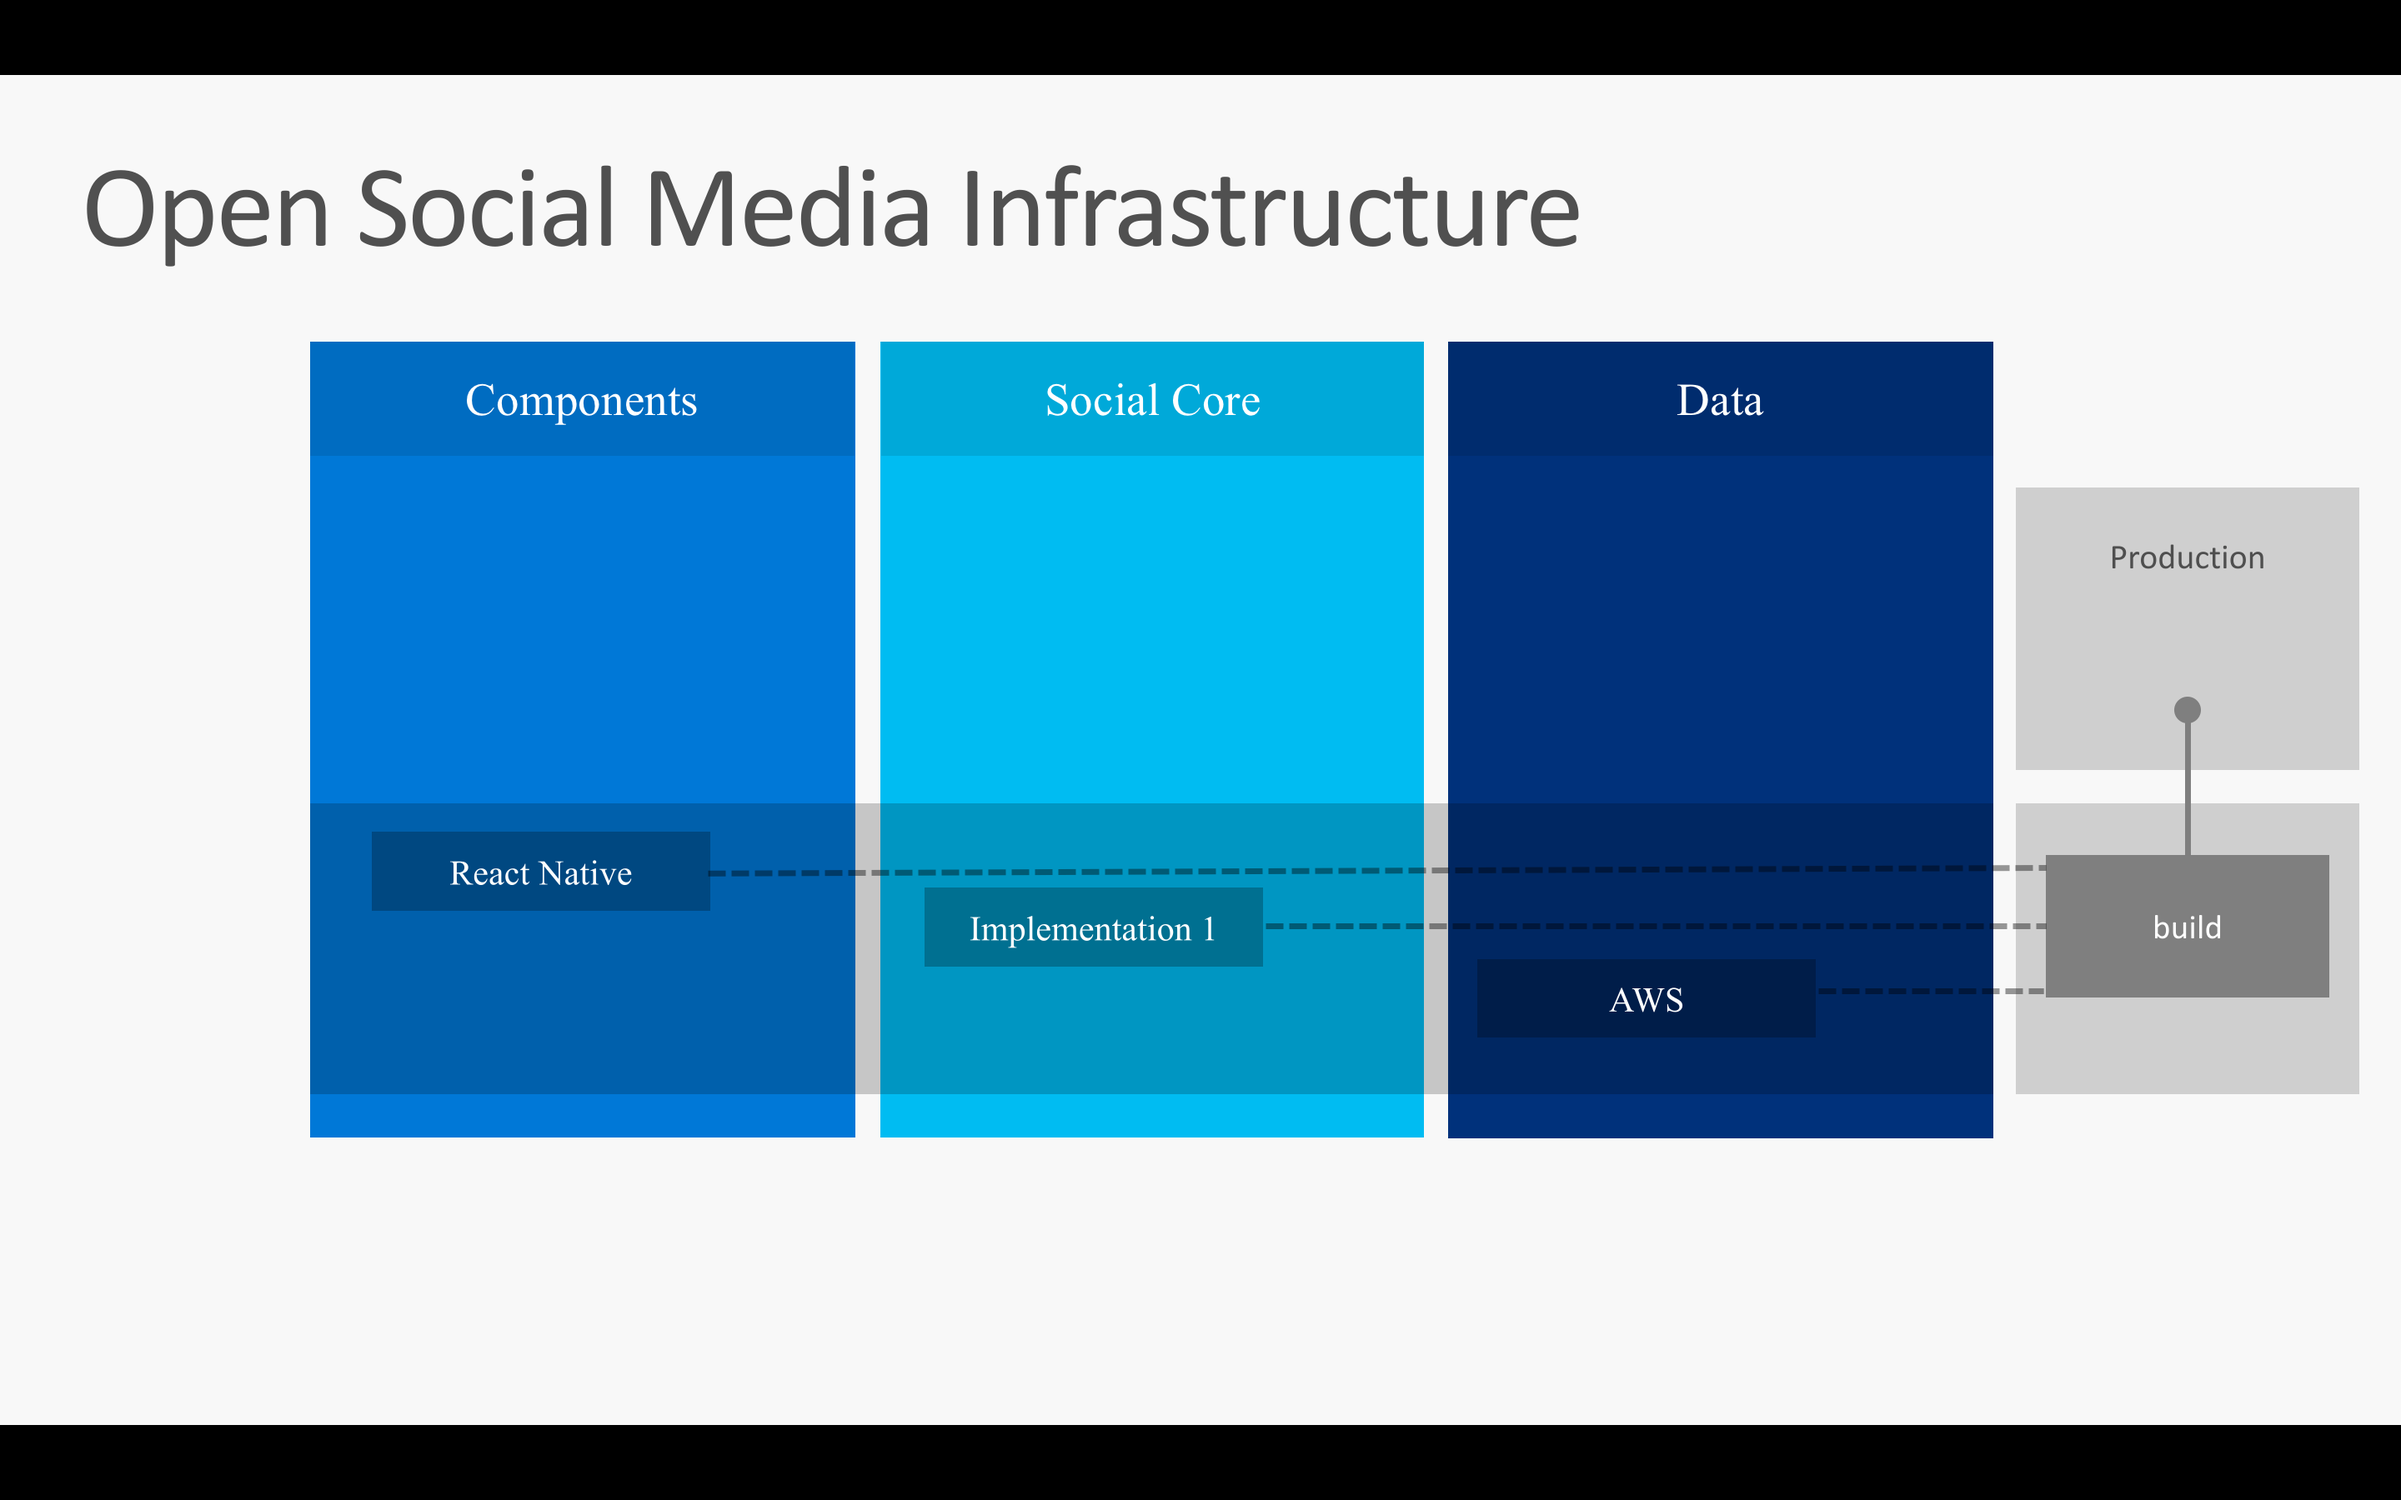
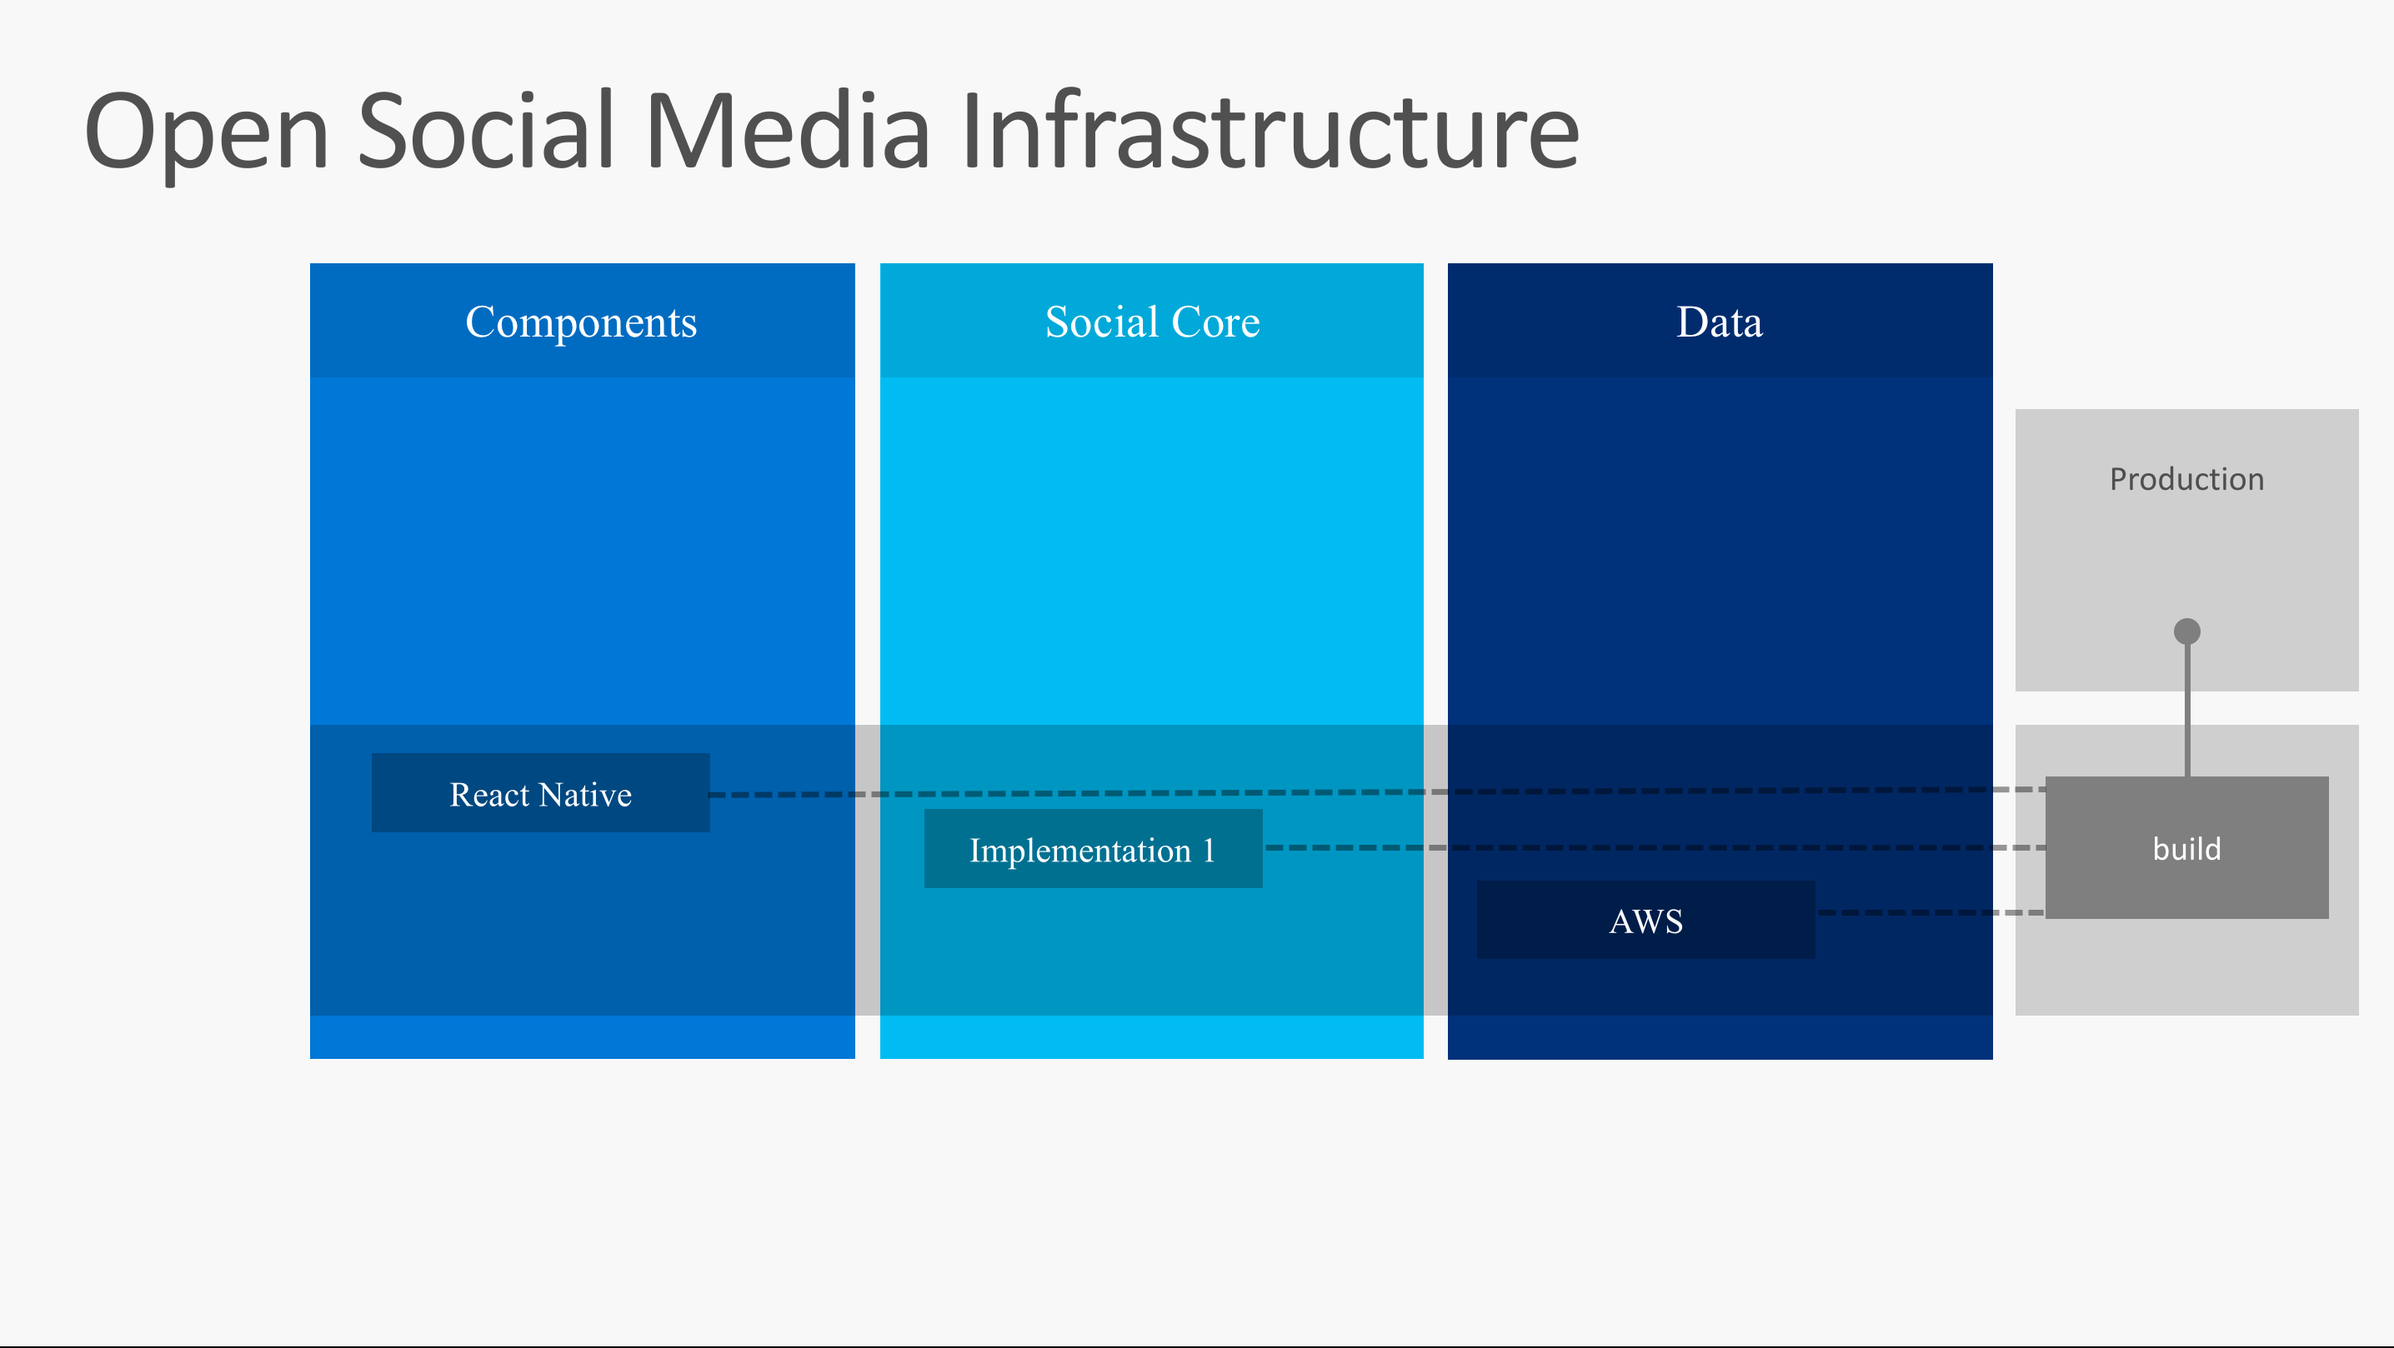
[Docs] Change layer pictures size

Changed region(s): [[0.0, 0.0, 1.0, 0.8035], [0.0, 0.9271, 1.0, 1.0], [0.8367, 0.2781, 0.9916, 0.4017]]

diff --git a/docs/layers.md b/docs/layers.md
@@ -18,7 +18,7 @@
     - ASP.NET Data Client
     - PHP Data Client
   ### Components
-<img height="500" width="400" src="https://raw.githubusercontent.com/Qolzam/react-social-network/next/docs/app/layer-4.png">
+<img height="500" width="400" src="https://raw.githubusercontent.com/Qolzam/react-social-network/next/docs/app/layer-3.png">
 
 ## Integrating and reusability in both mobile and web app
     With new structure we are able to develop the mobile app in parallel with web app **only** with changing `Components` layer. It means we can keep `Core`, `Data` layers, `Actions`, `Reducers`, etc. What we have high reusability and fast in producing the products.
